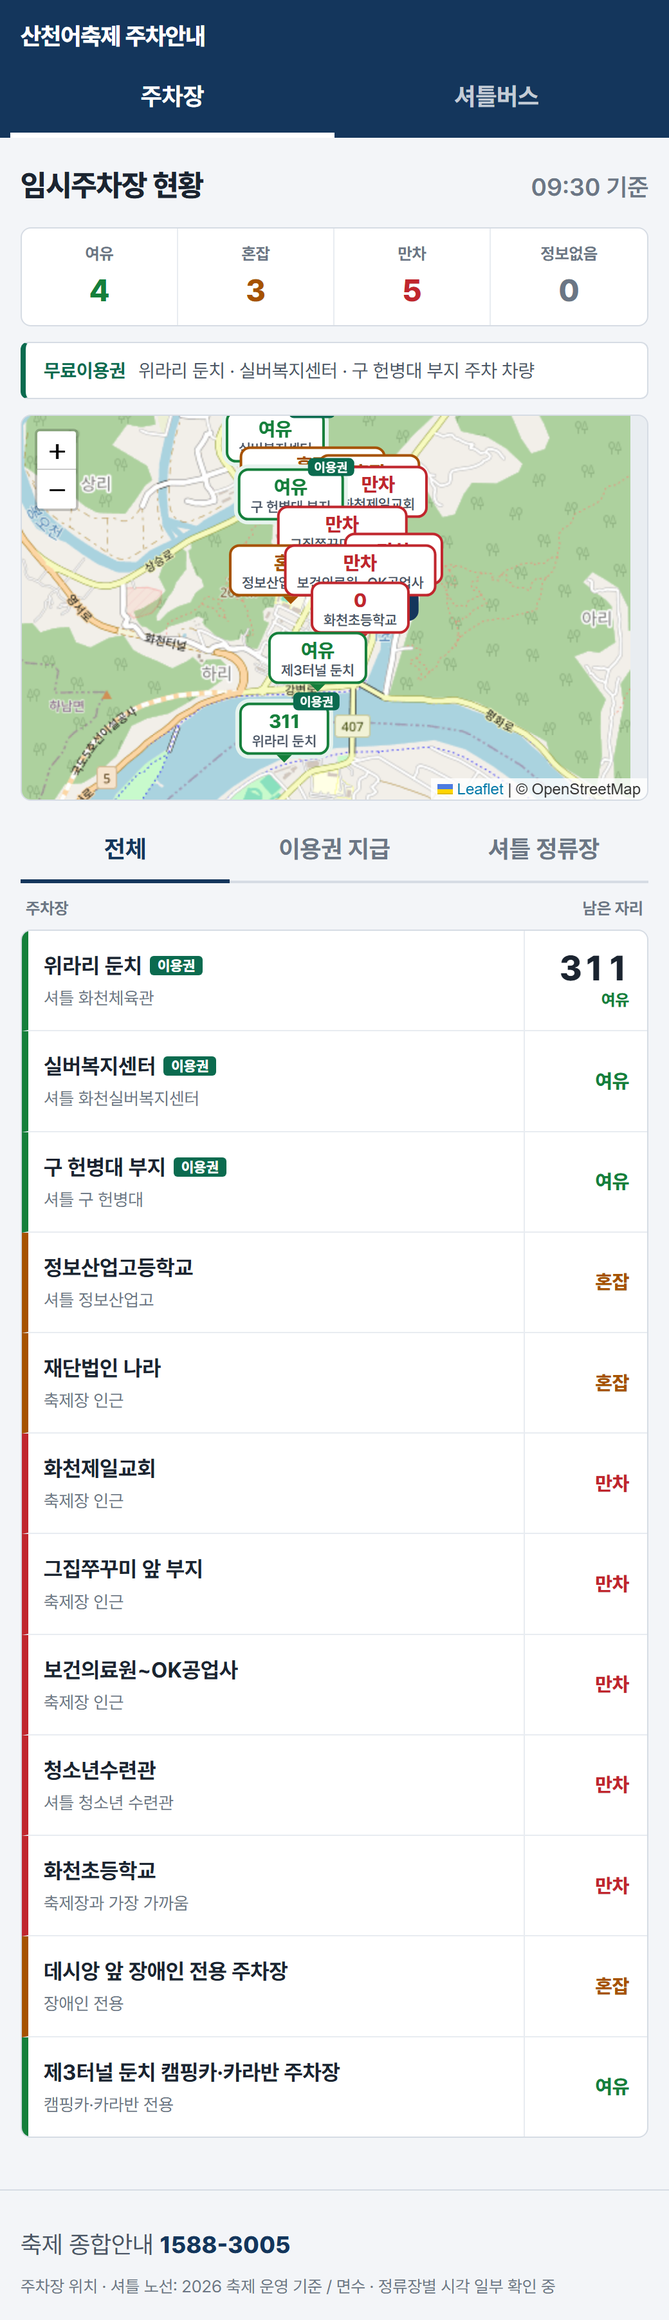
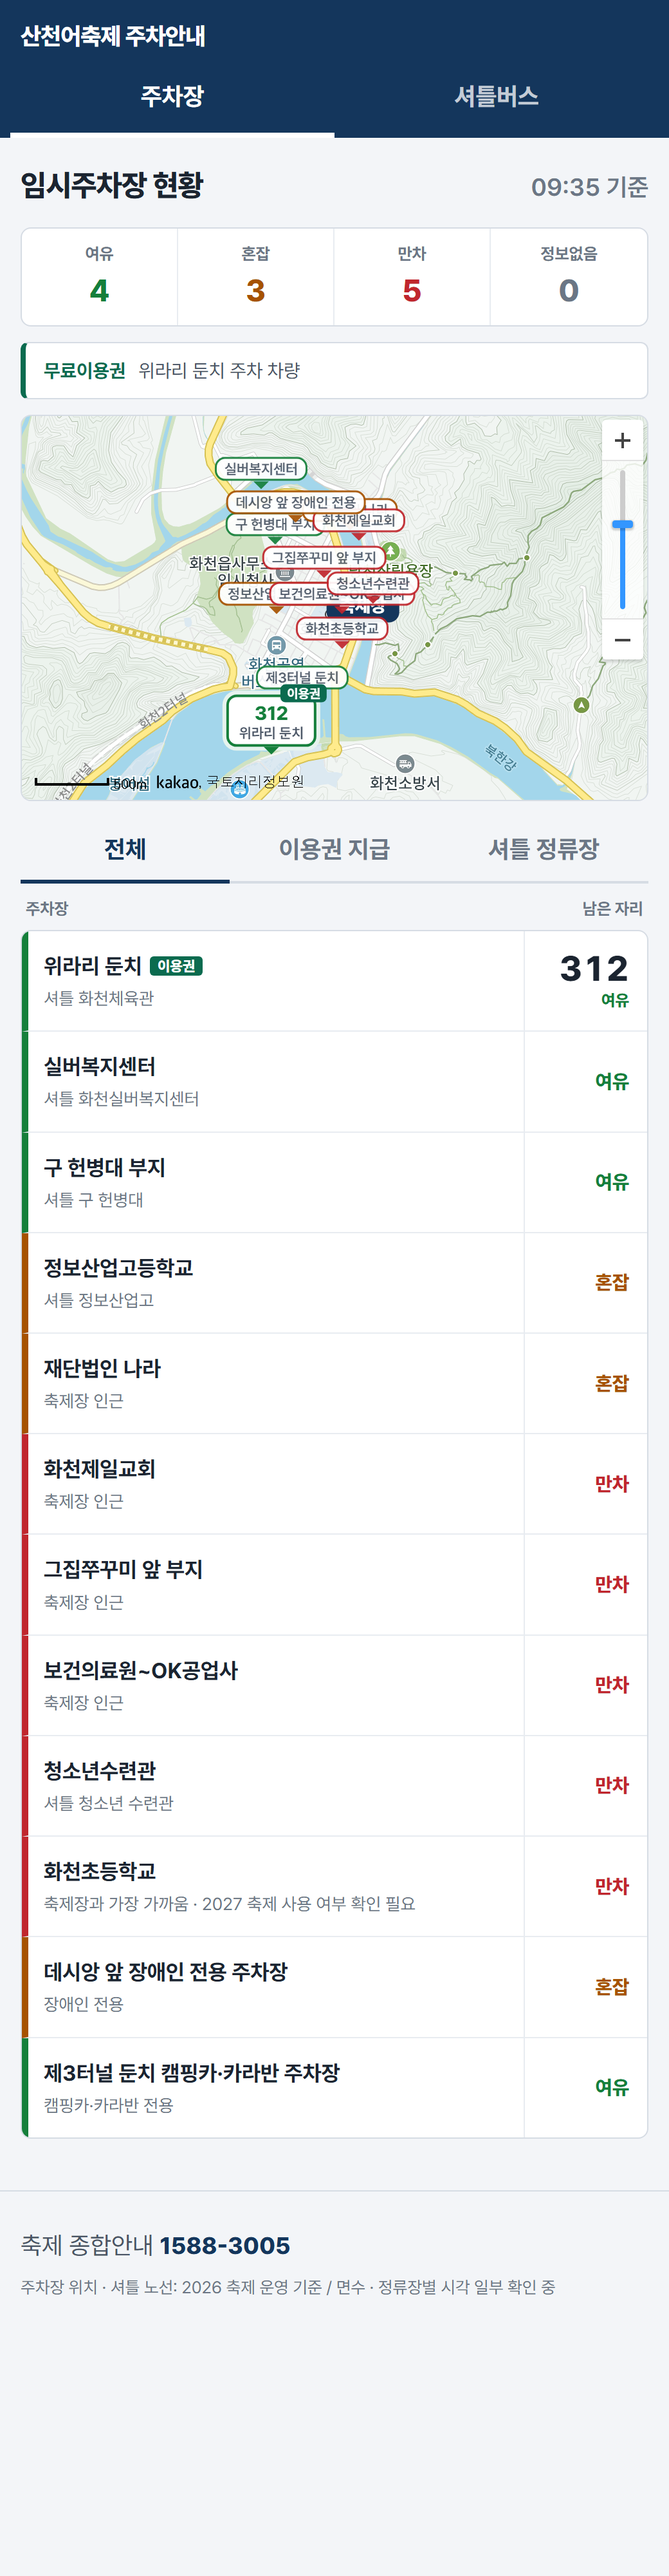
카카오맵 표시 위치 수정, 지도는 이용권 주차장만 크게 표시
- 카카오 CustomOverlay 기준점과 CSS 이동이 겹쳐 위치가 밀리던 문제 수정
- 이용권 주차장·선택한 주차장만 큰 표시, 나머지는 상태색 이름표(시내 겹침 감소)
- 화면 캡처 갱신

diff --git a/frontend/src/components/LotMap.jsx b/frontend/src/components/LotMap.jsx
@@ -11,9 +11,9 @@ export function shortName(name) {
 function markerHtml(lot, selected) {
   const lv = LEVEL[lot.level] ?? LEVEL.UNKNOWN
   const cls = `pin ${lv.cls}${selected ? ' sel' : ''}${lot.incentive ? ' gift' : ''}`
-  // 면수·상태를 모르는 곳은 이름만 작게 (지도가 덜 복잡하게)
-  if (lot.level === 'UNKNOWN' && !selected) {
-    return `<div class="${cls} slim"><span>${shortName(lot.name)}</span></div>`
+  // 이용권 주차장과 선택한 곳만 크게. 나머지는 상태색 테두리의 작은 이름표 (시내에 몰려 있어 겹침 방지)
+  if (!lot.incentive && !selected) {
+    return `<div class="${cls} slim" title="${lot.name} ${lv.word}"><span>${shortName(lot.name)}</span></div>`
   }
   const label = lot.remaining != null && lot.level !== 'CLOSED' ? `${lot.remaining}` : lv.word
   return `<div class="${cls}"><b>${label}</b><span>${shortName(lot.name)}</span></div>`
@@ -85,7 +85,9 @@ export default function LotMap({ lots, selected, onSelect, height = 340 }) {
         const o = new mm.kakao.maps.CustomOverlay({
           position: new mm.kakao.maps.LatLng(lat, lng),
           content: el.firstChild,
-          yAnchor: 1,
+          // 위치 맞춤은 CSS(.pin transform)가 한다 → 카카오 기준점은 왼쪽 위로
+          xAnchor: 0,
+          yAnchor: 0,
           zIndex: z,
         })
         o.setMap(mm.m)
